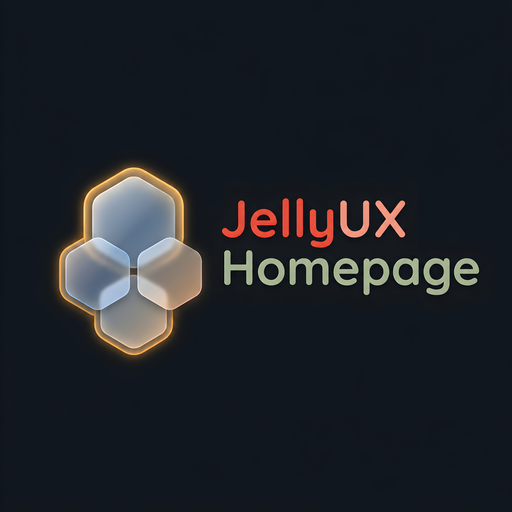
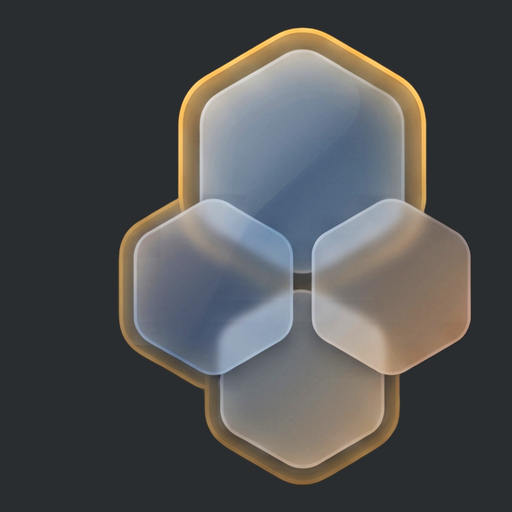
docs: update branding and streamline README content
Replace the plugin icon and add a new banner image, centered above
the badges at the top of the README. Drop the .NET SDK prerequisite
(dev-only, already covered in CONTRIBUTING), narrow Compatibility down
to Jellyfin clients only, and correct the stale claim that mobile/
desktop apps aren't supported now that native shell rendering works.
Add a Synergies section calling out Media Bar and CSS theme
compatibility, and drop the Roadmap section since it only pointed at
the internal, untracked TODO_V1.md planning document.

diff --git a/README.md b/README.md
@@ -1,13 +1,17 @@
 # JellyUX Homepage
 
-<img src="docs/icon.png" alt="JellyUX Homepage icon" width="96" height="96">
+<p align="center">
+  <img src="docs/banner.png" alt="JellyUX Homepage banner">
+</p>
+
+<p align="center">
+  <img src="https://github.com/Samuellct/JellyUX-Homepage/actions/workflows/ci.yml/badge.svg" alt="Build">
+  <img src="https://img.shields.io/github/v/release/Samuellct/JellyUX-Homepage" alt="Version">
+  <img src="https://img.shields.io/badge/Jellyfin-10.11.10%2B-orange" alt="Jellyfin">
+  <img src="https://img.shields.io/badge/license-GPL--3.0-green" alt="License">
+</p>
 
 A modular home screen engine for Jellyfin that replaces the default home page with a fully configurable widget system.
-
-![Build](https://github.com/Samuellct/JellyUX-Homepage/actions/workflows/ci.yml/badge.svg)
-![Version](https://img.shields.io/github/v/release/Samuellct/JellyUX-Homepage)
-![Jellyfin](https://img.shields.io/badge/Jellyfin-10.11.10%2B-orange)
-![License](https://img.shields.io/badge/license-GPL--3.0-green)
 
 ---
 
@@ -15,7 +19,6 @@ A modular home screen engine for Jellyfin that replaces the default home page wi
 
 - **Jellyfin** 10.11.10 or later
 - **[File Transformation plugin](https://github.com/IAmParadox27/jellyfin-plugin-file-transformation)** (required - JellyUX uses it to inject its scripts into the Jellyfin web client)
-- **.NET 9 SDK** (contributors only, not required for end users)
 
 ---
 
@@ -51,13 +54,21 @@ After installation, the plugin configuration page lets you:
 
 ## Compatibility
 
-| Component | Status |
+| Client | Status |
 |---|---|
-| Jellyfin Web client | Supported (all major browsers) |
-| Media Bar plugin | Compatible |
-| ZestyTheme CSS | Compatible |
-| Native TV clients (Android TV, Apple TV, Roku) | Auto-disabled - native home screen is preserved |
-| Jellyfin mobile apps | Not supported (native clients) |
+| Web browsers (Chrome, Firefox, etc.) | Supported |
+| Jellyfin Media Player (Windows) | Supported |
+| Jellyfin app (Android) | Supported |
+| TV clients (Android TV, Apple TV, Roku) | Auto-disabled - native home screen is preserved |
+
+---
+
+## Synergies
+
+JellyUX Homepage is built to coexist cleanly with other popular Jellyfin customization projects:
+
+- **[Media Bar](https://github.com/IAmParadox27/jellyfin-plugin-media-bar)** by IAmParadox27 - adds a cinematic slideshow banner above the home screen. Both plugins patch the web client independently and render side by side without conflict.
+- **[ZestyTheme](https://github.com/stpnwf/ZestyTheme)** and other CSS themes - JellyUX widgets reuse native Jellyfin CSS classes and variables instead of redefining them, so they automatically inherit whichever theme is active.
 
 ---
 
@@ -112,12 +123,6 @@ automatically whenever a server is cached). Fallback: edit `jellyfinmediaplayer.
 `userWebClient` to an empty string. Don't confuse this with the
 `%LOCALAPPDATA%\Jellyfin Media Player` cache folder (with spaces) - clearing that one does not fix
 this specific issue, since it's an auto-connect cache, not a browser cache.
-
----
-
-## Roadmap
-
-See [TODO_V1.md](TODO_V1.md) for the full development roadmap (local planning document, not tracked in the repository).
 
 ---
 